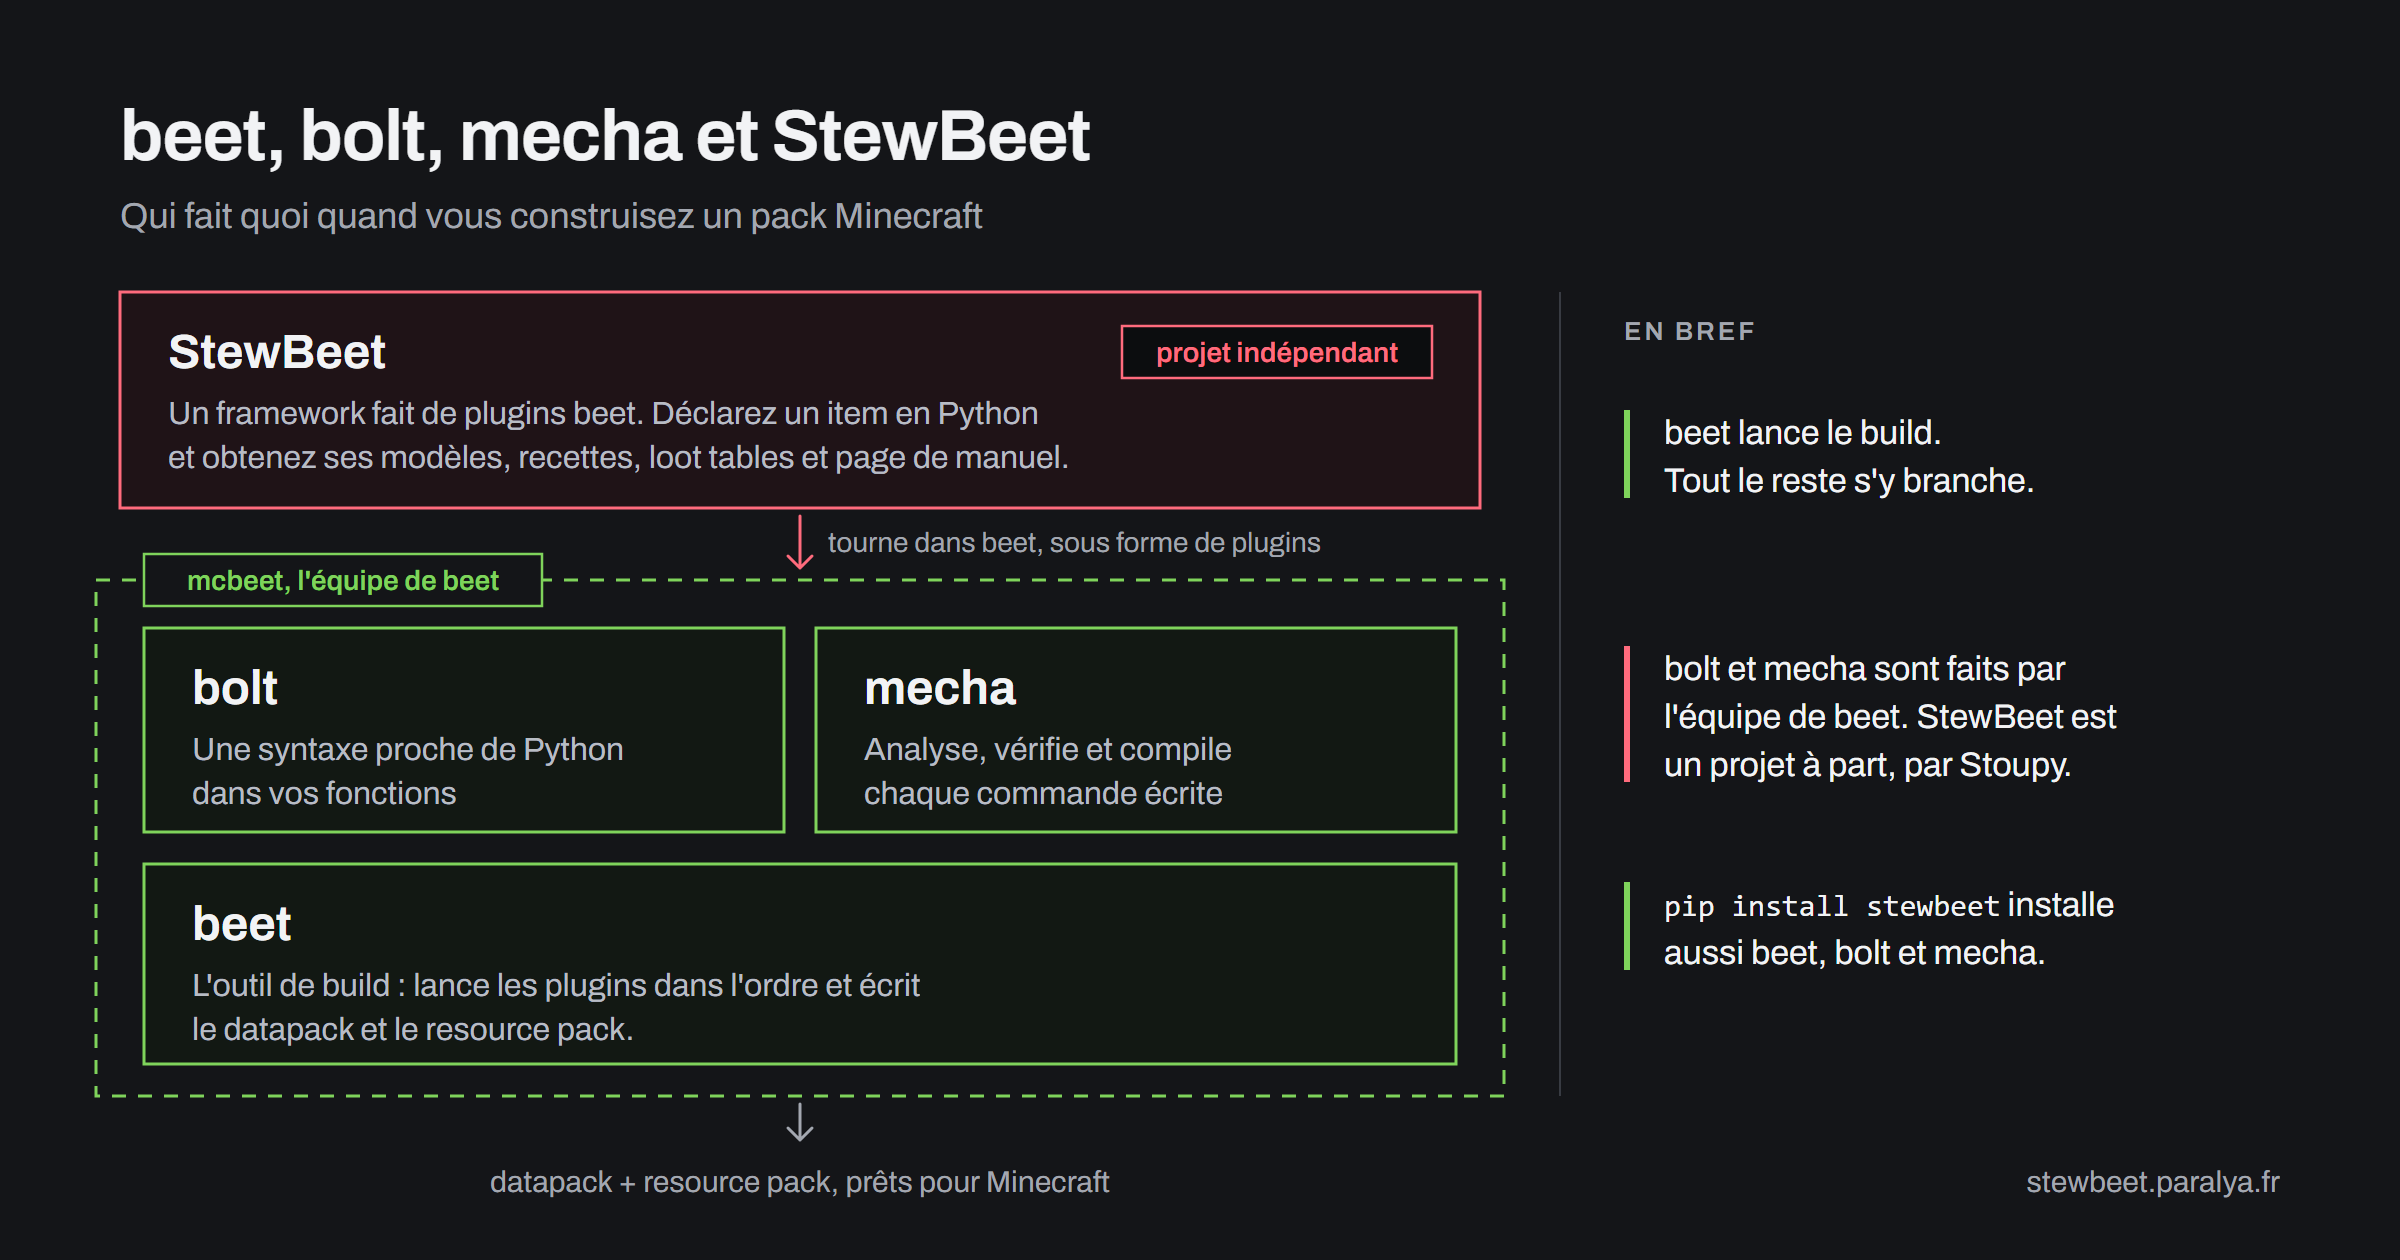
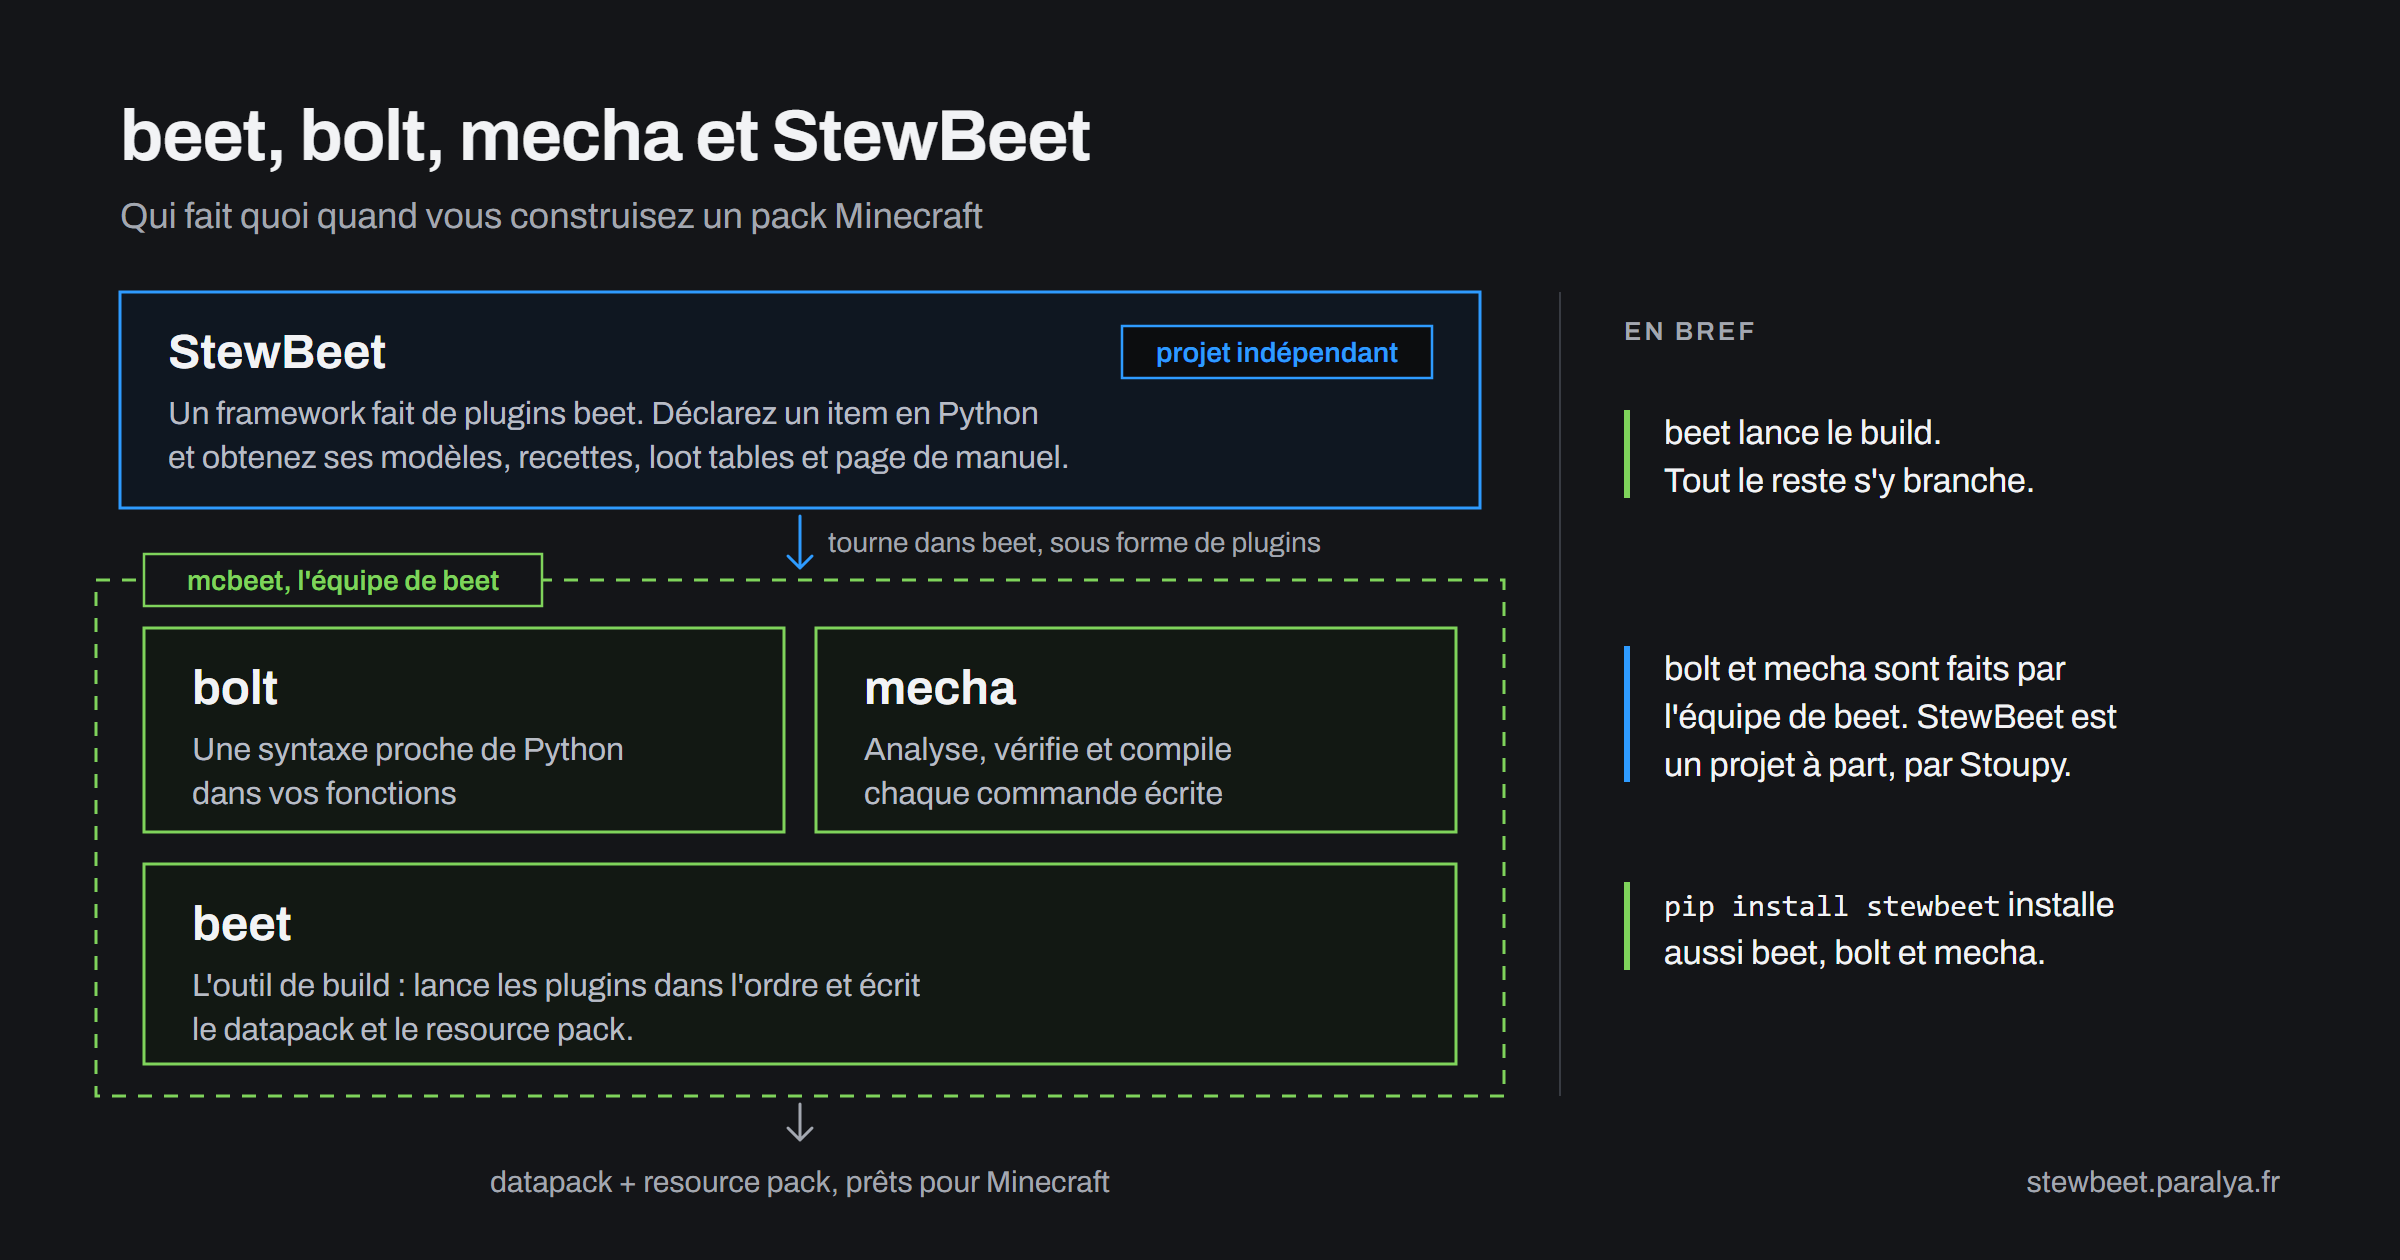
style(web): 🎨 Draw StewBeet in electric blue with a running spark in the stack diagram

Changed region(s): [[0.0625, 0.2167, 0.625, 0.3095], [0.3125, 0.4024, 0.3438, 0.4333]]

diff --git a/docs/web/src/components/stackDiagram.ts b/docs/web/src/components/stackDiagram.ts
@@ -28,21 +28,14 @@ export const STACK_PALETTES = {
     dark: {
         background: '#141518', panel: '#0c0d0f', border: '#383b42',
         strong: '#f2f3f5', body: '#b8bcc4', muted: '#a3a7b0',
-        stewbeet: '#ff6b7d', stewbeetTint: 'rgba(255, 107, 125, 0.08)',
+        stewbeet: '#2e9bff', stewbeetTint: 'rgba(46, 155, 255, 0.08)',
         team: '#7fd35b', teamTint: 'rgba(127, 211, 91, 0.06)',
     },
     light: {
         background: '#f7f7f8', panel: '#ffffff', border: '#d0d2d7',
         strong: '#111214', body: '#3d4047', muted: '#565964',
-        stewbeet: '#b81d39', stewbeetTint: 'rgba(184, 29, 57, 0.08)',
+        stewbeet: '#0a6fd6', stewbeetTint: 'rgba(10, 111, 214, 0.08)',
         team: '#2b7a19', teamTint: 'rgba(43, 122, 25, 0.06)',
-    },
-    /** Follows the page's theme switch through the variables tailwind.config.js defines. */
-    page: {
-        background: 'rgb(var(--ink-900))', panel: 'rgb(var(--ink-950))', border: 'rgb(var(--ink-700))',
-        strong: 'rgb(var(--ink-50))', body: 'rgb(var(--ink-300))', muted: 'rgb(var(--ink-400))',
-        stewbeet: 'rgb(var(--beet-400))', stewbeetTint: 'rgb(var(--beet-400) / 0.08)',
-        team: 'rgb(var(--leaf-400))', teamTint: 'rgb(var(--leaf-400) / 0.06)',
     },
 } as const satisfies Record<string, StackPalette>;
 
@@ -149,7 +142,12 @@ const STYLE = `
 [data-play] .stk-a { animation: stk-rise 600ms cubic-bezier(0.2, 0.8, 0.2, 1) var(--d) both; }
 [data-play] .stk-drop { animation-name: stk-drop; animation-duration: 700ms; }
 [data-play] .stk-fade { animation-name: stk-fade; }
-@media (prefers-reduced-motion: reduce) { [data-play] .stk-a { animation: none; } [data-armed]:not([data-play]) .stk-a { opacity: 1; } }
+.stk-spark, .stk-flow { display: none; }
+[data-play] .stk-spark { display: inline; filter: drop-shadow(0 0 4px currentColor); animation: stk-current 3.2s linear 2.6s infinite both; }
+[data-play] .stk-flow { display: inline; animation: stk-flow 0.9s linear 2.6s infinite both; }
+@keyframes stk-current { from { stroke-dashoffset: 100; } to { stroke-dashoffset: 0; } }
+@keyframes stk-flow { from { stroke-dashoffset: 12; } to { stroke-dashoffset: 0; } }
+@media (prefers-reduced-motion: reduce) { [data-play] .stk-a { animation: none; } [data-armed]:not([data-play]) .stk-a { opacity: 1; } [data-play] .stk-spark, [data-play] .stk-flow { animation: none; display: none; } }
 `;
 
 export interface StackDiagramOptions {
@@ -188,7 +186,9 @@ ${step(1.4, `<rect x="48" y="290" width="704" height="258" fill="none" stroke="$
     + pill(72, 290, text.team, p.team, p.background, 14), 'stk-fade')}
 ${step(1.9, box(60, 146, 680, 108, 'StewBeet', text.stewbeet, p.stewbeet, p.stewbeetTint, p)
     + pill(740 - 24 - Math.round(text.stewbeetTag.length * 14 * 0.52 + 24), 176, text.stewbeetTag, p.stewbeet, p.panel, 14)
+    + `<rect class="stk-spark" color="${p.stewbeet}" x="60" y="146" width="680" height="108" pathLength="100" fill="none" stroke="${p.stewbeet}" stroke-width="3" stroke-dasharray="6 94" stroke-linecap="round"/>`
     + `<path d="M400 258 v26 m-6 -6 l6 6 l6 -6" fill="none" stroke="${p.stewbeet}" stroke-width="1.5" stroke-linecap="round" stroke-linejoin="round"/>`
+    + `<path class="stk-flow" d="M400 258 v24" fill="none" stroke="${p.stewbeet}" stroke-width="3" stroke-dasharray="4 8" stroke-linecap="round"/>`
     + `<text x="414" y="276" font-size="14" fill="${p.muted}">${escapeXml(text.plugsInto)}</text>`, 'stk-drop')}
 <line x1="780" y1="146" x2="780" y2="548" stroke="${p.border}"/>
 ${step(2.1, `<text x="812" y="170" font-size="13" font-weight="600" letter-spacing="1.5" fill="${p.muted}">${escapeXml(text.factsTitle)}</text>`, 'stk-fade')}

diff --git a/docs/web/src/components/MarkdownPage.tsx b/docs/web/src/components/MarkdownPage.tsx
@@ -216,7 +216,12 @@ const DocLink = ({ href, children }: React.AnchorHTMLAttributes<HTMLAnchorElemen
 
 /** One box of the stack figure: a project's name and what it does, in the colour of who makes it. */
 const StackBox = ({ name, lines, team, delay }: { name: string; lines: string[]; team: boolean; delay: number }) => (
-    <span className={`stk-a block p-4 border ${team ? 'border-generated bg-generated/[0.06]' : 'border-link bg-link/[0.08]'}`} style={{ '--d': `${delay}s` } as React.CSSProperties}>
+    <span className={`stk-a relative block p-4 border ${team ? 'border-generated bg-generated/[0.06]' : 'border-electric bg-electric/[0.08]'}`} style={{ '--d': `${delay}s` } as React.CSSProperties}>
+        {!team && (
+            <svg className="stk-spark absolute -inset-px w-[calc(100%+2px)] h-[calc(100%+2px)] overflow-visible pointer-events-none text-electric" aria-hidden="true">
+                <rect width="100%" height="100%" pathLength={100} fill="none" stroke="currentColor" strokeWidth={3} strokeDasharray="6 94" strokeLinecap="round" />
+            </svg>
+        )}
         <span className="block text-lg font-bold text-text">{name}</span>
         <span className="block mt-1 text-[0.9375rem] leading-normal text-text-muted">{lines.join(' ')}</span>
     </span>
@@ -248,7 +253,7 @@ const StackDiagram = () => {
             <span className="stk-a stk-fade block mt-2 text-center text-sm text-text-muted" style={{ '--d': '1.5s' } as React.CSSProperties}>{text.output}</span>
             <span className="grid gap-3 mt-5 pt-4 border-t border-border sm:grid-cols-3">
                 {text.facts.map((lines, index) => (
-                    <span key={index} className={`stk-a stk-fade block pl-3 border-l-[3px] text-[0.9375rem] leading-normal ${index === 1 ? 'border-link' : 'border-generated'}`} style={{ '--d': `${1.8 + index * 0.2}s` } as React.CSSProperties}>
+                    <span key={index} className={`stk-a stk-fade block pl-3 border-l-[3px] text-[0.9375rem] leading-normal ${index === 1 ? 'border-electric' : 'border-generated'}`} style={{ '--d': `${1.8 + index * 0.2}s` } as React.CSSProperties}>
                         {code(lines.join(' '))}
                     </span>
                 ))}

diff --git a/docs/web/src/index.css b/docs/web/src/index.css
@@ -149,13 +149,18 @@
   @apply text-text;
 }
 
-
-/* The stack figure of the how_it_fits page builds itself up once, from beet to the facts. */
+/*
+ * The stack figure of the how_it_fits page builds itself up once, from beet to the facts. Then a spark
+ * runs around StewBeet's frame, the current it feeds into beet; reduced motion shows the frame still.
+ */
 @keyframes stk-rise { from { opacity: 0; transform: translateY(12px); } to { opacity: 1; transform: none; } }
 @keyframes stk-fade { from { opacity: 0; } to { opacity: 1; } }
+@keyframes stk-current { from { stroke-dashoffset: 100; } to { stroke-dashoffset: 0; } }
+.stack-figure .stk-spark { display: none; }
 @media (prefers-reduced-motion: no-preference) {
   .stack-figure .stk-a { animation: stk-rise 500ms cubic-bezier(0.16, 1, 0.3, 1) var(--d) both; }
   .stack-figure .stk-fade { animation-name: stk-fade; }
+  .stack-figure .stk-spark { display: block; filter: drop-shadow(0 0 4px currentColor); animation: stk-current 3.2s linear 0.8s infinite both; }
 }
 
 .markdown-body :is(h1, h2, h3, h4, h5, h6) {

diff --git a/docs/web/tailwind.config.js b/docs/web/tailwind.config.js
@@ -16,6 +16,7 @@ const THEMED = {
   border: ['#272930', '#e3e4e8'],
   link: ['#ff6b7d', '#b81d39'],
   generated: ['#7fd35b', '#2b7a19'],
+  electric: ['#2e9bff', '#0a6fd6'],
   'code-surface': ['#15171b', '#ffffff'],
   'code-border': ['#2a2d34', '#e3e4e8'],
   'code-text': ['#e6e7ea', '#1f2328'],

diff --git a/docs/web/DESIGN.md b/docs/web/DESIGN.md
@@ -20,6 +20,8 @@ colors:
   link-dark: "#ff6b7d"
   generated: "#2b7a19"
   generated-dark: "#7fd35b"
+  electric: "#0a6fd6"
+  electric-dark: "#2e9bff"
   code-surface: "#ffffff"
   code-surface-dark: "#15171b"
   code-border: "#e3e4e8"
@@ -117,7 +119,7 @@ The signature is a 16 px pixel grid visible in the page margins, behind a conten
 
 ## Colors
 
-The light page is pure white and the dark page a neutral near-black: no cream, no brown tint, grey neutrals only. Beet red is the only accent, kept for the one primary button of a screen and for links; white on `primary` is 5.9:1, and a pressed or hovered button darkens to `primary-hover`. Leaf green marks generated output and success. Code follows the page: a white panel framed by its border in the light theme, a raised near-black one in the dark theme, highlighted with VS Code's Light+ and Dark+. A light page with dark code blocks makes the eye adapt at every block, and dark text on a light background reads better.
+The light page is pure white and the dark page a neutral near-black: no cream, no brown tint, grey neutrals only. Beet red is the only accent, kept for the one primary button of a screen and for links; white on `primary` is 5.9:1, and a pressed or hovered button darkens to `primary-hover`. Leaf green marks generated output and success. Electric blue is StewBeet itself in the beet, bolt and mecha diagram, with a spark running along its frame and down into beet; the light value keeps 4.9:1 on white. Code follows the page: a white panel framed by its border in the light theme, a raised near-black one in the dark theme, highlighted with VS Code's Light+ and Dark+. A light page with dark code blocks makes the eye adapt at every block, and dark text on a light background reads better.
 
 Each docs section has a color taken from Minecraft's text colors and darkened for the light theme, all at 4.5:1 or more: Start here green, Guides blue, Plugins gold, Contrib magenta, Reference purple, Understand cyan. A section's color appears wherever the section does: its sidebar label with an 8 px square, the current page marker, the breadcrumb, the docs home and the search results.
 

diff --git a/README.md b/README.md
@@ -22,7 +22,8 @@ Minecraft datapacks, generated from Python. Declare an item or a block once, and
 StewBeet is a set of plugins for [beet](https://github.com/mcbeet/beet), the build tool of the mcbeet team. Every beet plugin, and [bolt](https://github.com/mcbeet/bolt) and [mecha](https://github.com/mcbeet/mecha), keep working in a StewBeet project.
 
 <picture>
-  <source media="(prefers-color-scheme: light)" srcset="https://raw.githubusercontent.com/Stoupy51/StewBeet/main/docs/web/public/img/stack/stewbeet-stack.en.light.png">
+  <source media="(prefers-color-scheme: light)" srcset="https://raw.githubusercontent.com/Stoupy51/StewBeet/main/docs/web/public/img/stack/stewbeet-stack.en.light.svg">
+  <source media="(prefers-color-scheme: dark)" srcset="https://raw.githubusercontent.com/Stoupy51/StewBeet/main/docs/web/public/img/stack/stewbeet-stack.en.dark.svg">
   <img alt="beet runs the build, and bolt and mecha plug into it, all three made by the beet team. StewBeet is a separate project that runs inside beet as plugins." src="https://raw.githubusercontent.com/Stoupy51/StewBeet/main/docs/web/public/img/stack/stewbeet-stack.en.dark.png">
 </picture>
 

diff --git a/python_package/README.md b/python_package/README.md
@@ -22,7 +22,8 @@ Minecraft datapacks, generated from Python. Declare an item or a block once, and
 StewBeet is a set of plugins for [beet](https://github.com/mcbeet/beet), the build tool of the mcbeet team. Every beet plugin, and [bolt](https://github.com/mcbeet/bolt) and [mecha](https://github.com/mcbeet/mecha), keep working in a StewBeet project.
 
 <picture>
-  <source media="(prefers-color-scheme: light)" srcset="https://raw.githubusercontent.com/Stoupy51/StewBeet/main/docs/web/public/img/stack/stewbeet-stack.en.light.png">
+  <source media="(prefers-color-scheme: light)" srcset="https://raw.githubusercontent.com/Stoupy51/StewBeet/main/docs/web/public/img/stack/stewbeet-stack.en.light.svg">
+  <source media="(prefers-color-scheme: dark)" srcset="https://raw.githubusercontent.com/Stoupy51/StewBeet/main/docs/web/public/img/stack/stewbeet-stack.en.dark.svg">
   <img alt="beet runs the build, and bolt and mecha plug into it, all three made by the beet team. StewBeet is a separate project that runs inside beet as plugins." src="https://raw.githubusercontent.com/Stoupy51/StewBeet/main/docs/web/public/img/stack/stewbeet-stack.en.dark.png">
 </picture>
 
